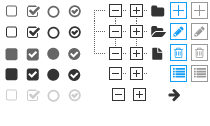
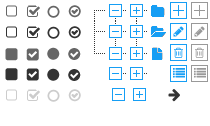
修改笔记树样式

diff --git a/vanki-web-pc/src/main/webapp/statics/js/note/list.js b/vanki-web-pc/src/main/webapp/statics/js/note/list.js
@@ -124,10 +124,10 @@ function addDiyDom(treeId, treeNode) {
         var secretIId = 'j_diy_secret';
 
         if (secret == ConstDB.Note.secretPwd) {
-            s += '<b style="color:green; font-size: 10px;" title="密码访问"> &nbsp;<i style="color: #9966FF; font-weight: 700;" class="fa fa-key"></i></b>';
+            s += '<b style="color:green; font-size: 10px;" title="密码访问"> &nbsp;<i style="color: #0593d3; font-weight: 700;" class="fa fa-key"></i></b>';
             flag = true;
         } else if (secret == ConstDB.Note.secretClose) {
-            s += '<b style="color:green; font-size: 10px;" title="不公开"> &nbsp;<i style="color: #9966FF; font-weight: 700;" class="fa fa-user-o"></i></b>';
+            s += '<b style="color:green; font-size: 10px;" title="不公开"> &nbsp;<i style="color: #0593d3; font-weight: 700;" class="fa fa-user-o"></i></b>';
             flag = true;
         }
     }

diff --git a/vanki-web-pc/src/main/webapp/statics/js/note/list_right.js b/vanki-web-pc/src/main/webapp/statics/js/note/list_right.js
@@ -35,9 +35,8 @@ $(function () {
         "> **记录生活，记录点滴！**\r\n" +
         ">> **你的笔记，大家的财富！**\r\n" +
         "\r\n" +
-        "> **<a href='http://www.qiqinote.com' target='_blank'>http://www.qiqinote.com</a>**\r\n" +
         "\r\n" +
-        "> 常用Markdown操作：<a href='" + basePath + "info/markdown/case.html' target='_blank'>http://www.qiqinote.com/info/markdown/case.html</a>";
+        "#### <a href='" + basePath + "info/markdown/case.html' target='_blank'>常用Markdown操作</a>";
 
     buildMarkdownEdit(initStr, 100);
 

diff --git a/vanki-web-pc/src/main/webapp/statics/css/index/index.css b/vanki-web-pc/src/main/webapp/statics/css/index/index.css
@@ -7,3 +7,13 @@
     font-weight: 900;
     font-style: italic;
 }
+
+.btn_info1 {
+    color: #fff;
+    background: #0593d3;
+}
+
+.btn_info1:hover {
+    color: #fff !important;
+    background: #337cbb;
+}
